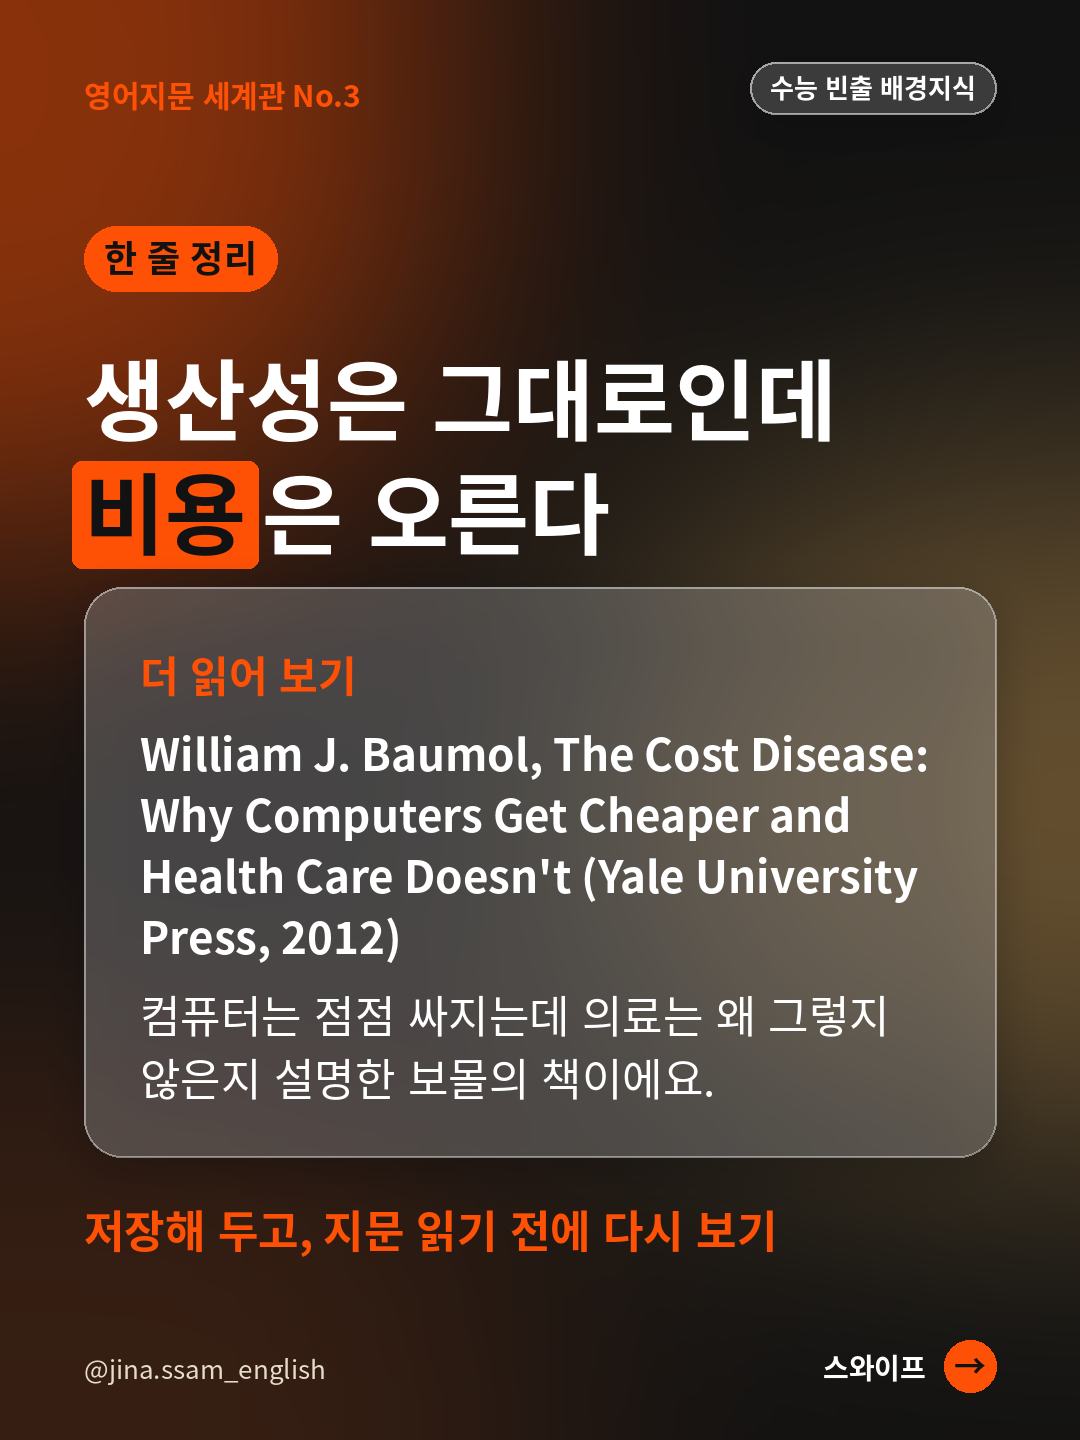
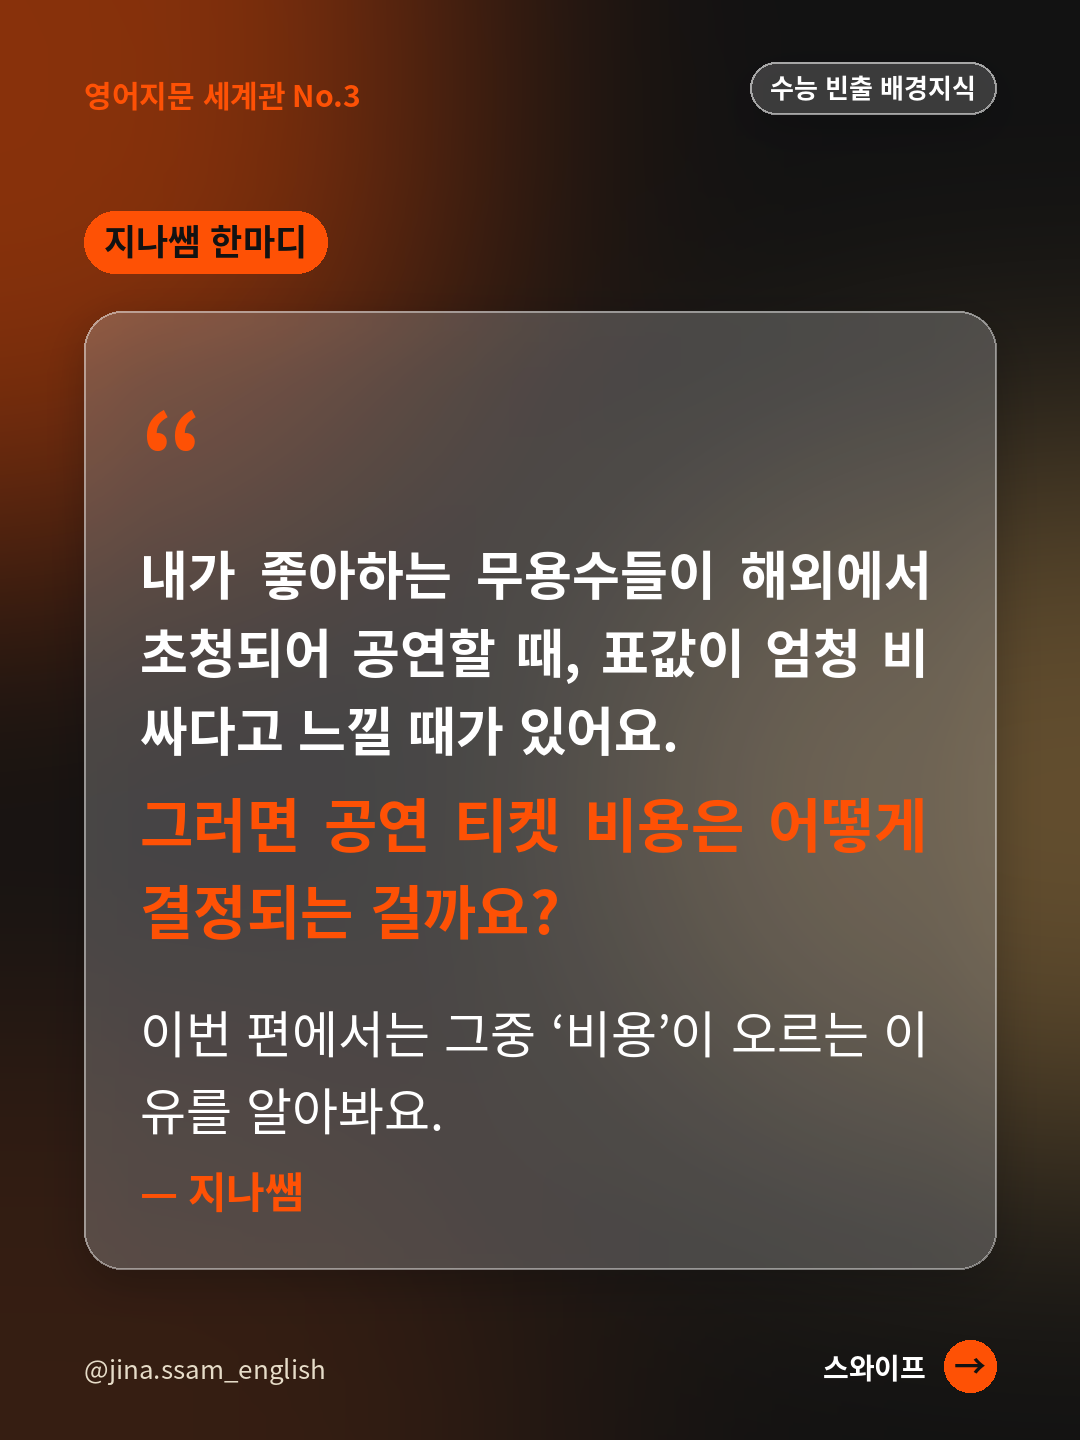
Add 지나쌤 한마디 slide to No.3 (15 glass slides)
Claude-Session: https://claude.ai/code/session_01Wy1t89MoYtcTzxhXFEcNJ8

diff --git a/jina-carousel/glass_no03_baumol.py b/jina-carousel/glass_no03_baumol.py
@@ -71,6 +71,14 @@ S.append([Pill('기출 단어 · 2026 수능 40번'),Head([[('이 주제의 ',Fa
   Word('funding','자금 지원','Many theaters need public funding.'),
   Word('sustain','유지하다, 지탱하다','Funding helps sustain the arts.'),
   Word('sustainable','지속 가능한','They need a sustainable plan.')])
+# 지나쌤 한마디
+S.append([Pill('지나쌤 한마디'),
+  Card([Text('“',90,th.acc,True,lh=0.9),
+        Text('내가 좋아하는 무용수들이 해외에서 초청되어 공연할 때, 표값이 엄청 비싸다고 느낄 때가 있어요.',42,bold=True,lh=1.5),
+        Text('그러면 공연 티켓 비용은 어떻게 결정되는 걸까요?',46,th.acc,True,lh=1.5),
+        Gap(8),
+        Text('이번 편에서는 그중 ‘비용’이 오르는 이유를 알아봐요.',40,lh=1.55),
+        Text('— 지나쌤',34,th.acc,True)])])
 # 13 한 줄 정리
 S.append([Pill('한 줄 정리'),Head(['생산성은 그대로인데',[('비용',True),('은 오른다',False)]],size=80),
   Card([Text('더 읽어 보기',32,th.acc,True),

diff --git a/jina-carousel/RULES.md b/jina-carousel/RULES.md
@@ -60,7 +60,7 @@
 ## 7. 진행 현황 (2026-11-24)
 - No.1 공짜 앱의 비밀(주의 경제): 글라스 12장 + 수준별 지문 11장 + 노션 회차 페이지 완료.
 - No.2 확증 편향의 함정: 글라스 15장(지나쌤 한마디 포함) + 수준별 지문 11장 + 노션 회차 페이지 완료. 컬러칩 4.
-- No.3 보몰의 비용 질병: 글라스 14장 + 수준별 지문 11장 + 노션 회차 페이지 완료. 컬러칩 7. 지나쌤 한마디 답을 받으면 "지나쌤 한마디" 장 1개를 한 줄 정리 앞에 추가하고 노션 페이지에도 넣는다.
+- No.3 보몰의 비용 질병: 글라스 15장(지나쌤 한마디 포함) + 수준별 지문 11장 + 노션 회차 페이지 완료. 컬러칩 7. (지나쌤이 던진 질문 "공연 티켓 비용은 어떻게 결정될까?"는 이번 편이 비용 쪽만 다뤄서, 가격 결정 전체를 다루는 후속 주제 후보로 남겨 둠)
 - 다음: No.4 (주제 관리표 순서 4번 돌연변이와 적응도). 지나쌤 한마디 질문은 편마다 먼저 보낸다.
 - 기존 6편(배차 간격, 대기 시간의 심리, coopetition, 팃포탯, 오작동 방지, 기본값 효과)은 새 형식으로 다시 만든다.
 

diff --git a/jina-carousel/README.md b/jina-carousel/README.md
@@ -10,7 +10,7 @@
 | `neo_no01_attention.py` | No.1 수준별 지문 네오 브루탈리즘 캐러셀 11장 |
 | `glass_no02_confirmation.py` | No.2 확증 편향의 함정 (주제 캐러셀 15장) |
 | `neo_no02_confirmation.py` | No.2 수준별 지문 11장 |
-| `glass_no03_baumol.py` | No.3 보몰의 비용 질병 (주제 캐러셀 14장) |
+| `glass_no03_baumol.py` | No.3 보몰의 비용 질병 (주제 캐러셀 15장) |
 | `neo_no03_baumol.py` | No.3 수준별 지문 11장 |
 | `data/suneung_sheet_by_question.csv` | 2024~2027 수능 18~45번 주제와 원문 확인 단어 |
 | `output/` | 렌더링 결과 PNG와 캡션 |
